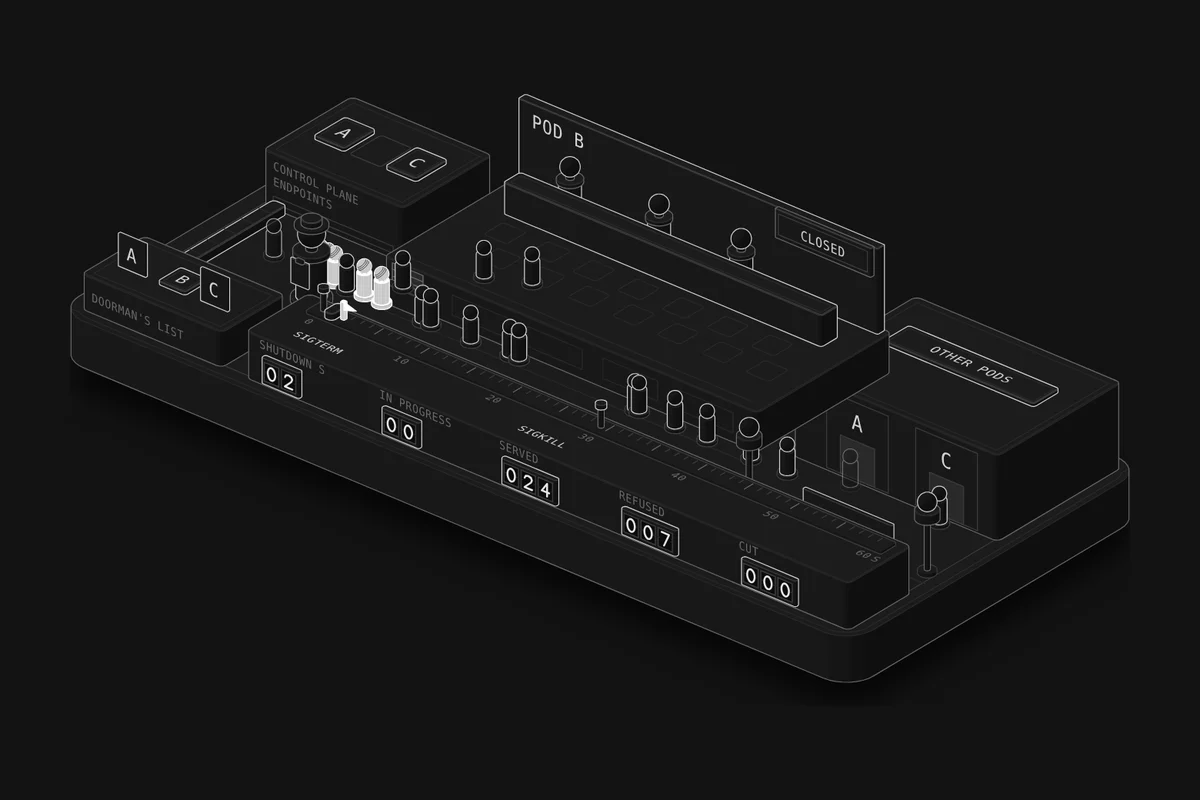
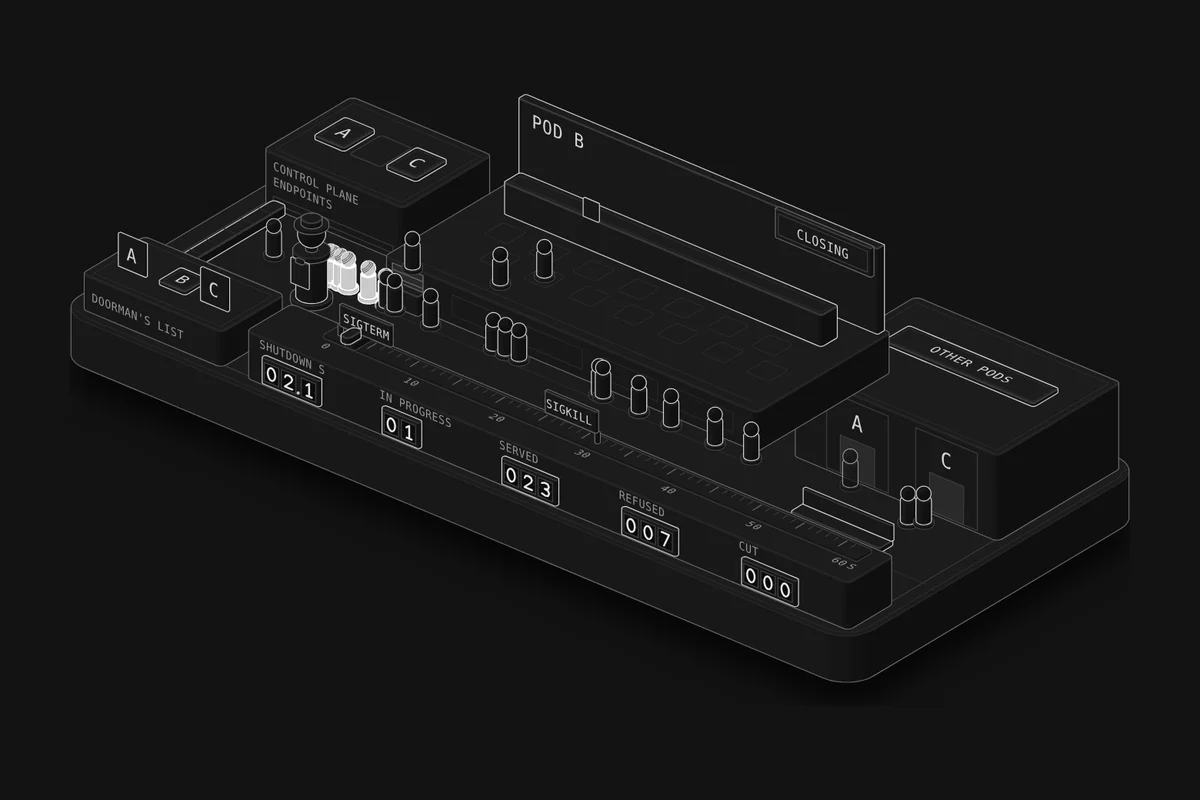
Lesson 77: fix review findings (Watch timing, desk clear of the street, signs for SIGTERM/SIGKILL, one lit role)
Clock desk moved forward and the rail start moved off the doorman, so the street reads clearly. SIGTERM/SIGKILL are signs, not ball-on-post pins; street lamps and the three clerks removed. Keep-alive clients wear a hat. Lit means only what goes wrong (refused/cut customers, cut tickets, the stale B card). SHUTDOWN S shows tenths in one housing, matching the stat. +N past the counter. Readout notes drop when their state is gone, holds scale with speed, SIGKILL's cut count stays while the new pod starts. Watches 3-5 start after the delete (fixed seeds) so the outcome lands within about 6 s.

Claude-Session: https://claude.ai/code/session_01S5z2gCvevbrGU3fXgpGDmP

diff --git a/src/lessons/shutdown/figure.ts b/src/lessons/shutdown/figure.ts
@@ -1,13 +1,13 @@
 // @ts-nocheck: figure code in the style of the other lessons; drawing shorthands come from src/lib/draw.
 // A shop at closing time: one pod of a service, shut down the way Kubernetes does it.
-//   at the back, the control plane's office keeps the endpoint list (a plaque per pod), the shop is pod B with its
-//   clerks and a counter where every request in progress has a ticket, and the other pods A and C share one block;
+//   at the back, the control plane's office keeps the endpoint list (a plaque per pod), the shop is pod B with a
+//   counter where every request in progress has a ticket, and the other pods A and C share one block;
 //   at the front left the doorman (the routers) sends each new customer to a pod on his own list, a copy of the
 //   office's that a capsule updates along a tube; at the front, the shutdown clock: a 60 s rail from the delete, with
-//   SIGTERM and SIGKILL pins, and the counters.
+//   SIGTERM and SIGKILL signs, and the counters.
 // Built with the Anatomy kit (MIT, github.com/wheresryan22/anatomy) and the shared workbench parts.
 import * as k from "../../../workbench/kit.mjs";
-import { basePlate, digitCounter, person, figurine, sign, plaque, card, lamp, faceText, variants, litFill } from "../../../workbench/parts.mjs";
+import { basePlate, digitCounter, person, figurine, sign, plaque, card, faceText, variants, litFill } from "../../../workbench/parts.mjs";
 import { t } from "../../../workbench/i18n.mjs";
 import { shorthand } from "../../lib/draw";
 
@@ -27,7 +27,6 @@ const WALL = { x: -62, y: -61, w: 105, d: 2.6, r: 0.4 };
 const WALL_H = 22;
 const COUNTER = { x: -56, y: -52, w: 93, d: 6, r: 0.8 };
 const COUNTER_H = 8;
-const CLERKS = [-44, -18, 6];
 const OTH = { x: 52, y: -61, w: 60, d: 43, r: 1.5 };
 const OTH_H = 22;
 export const OTH_DOORS = [71, 97];                      // pods A and C
@@ -42,7 +41,7 @@ export const DOOR_X = -57;                              // the shop's door, at t
 // ---------- front row ----------
 const PODIUM = { x: -112, y: 12, w: 41, d: 22, r: 1.5 };
 const PODIUM_H = 9;
-const DESK = { x: -64, y: 12, w: 176, d: 22, r: 1.5 };
+const DESK = { x: -64, y: 18, w: 176, d: 16, r: 1.5 };      // well in front of the street, so customers walk clear of it
 const DESK_H = 12;
 export const DOORMAN = [-75, -2];
 export const TUBE = { x: -106, y0: OFFICE.y + OFFICE.d, y1: PODIUM.y, z: 2.2 };
@@ -50,7 +49,7 @@ export const PEGS = [-104, -92, -80];                   // the doorman's list: A
 export const PLAQUES = [-101, -90.5, -80];              // the office's list: A, B, C
 
 // the shutdown clock's rail: seconds since the delete along x
-export const RAIL = { x0: -56, per: 2.7, secs: 60, y: 13.6, d: 5.6, z: DESK_H };
+export const RAIL = { x0: -46, per: 2.5, secs: 60, y: 19.6, d: 5.6, z: DESK_H };   // 0 s clear of the doorman
 export const railX = (s) => RAIL.x0 + RAIL.per * s;
 
 // walkers' paths (x, y, z)
@@ -100,12 +99,12 @@ function tube() {
   const bands = [];
   for (let y = TUBE.y0 + 5; y < TUBE.y1 - 2; y += 6) bands.push(k.lineOnTop([TUBE.x - 2, y], [TUBE.x + 2, y], TUBE.z, P));
   out.push(L(bands.join(""), { tone: "faint" }));
-  out.push(`<g data-capsule style="display:none">${litFill(S(k.slabOf({ x: -1.6, y: -3, w: 3.2, d: 6, r: 1.4 }, 0, 2.4, P, 4, 0.3), { tone: "hi", crease: "lo", lit: true }))}</g>`);
+  out.push(`<g class="sd-capsule" data-capsule style="display:none">${S(k.slabOf({ x: -1.6, y: -3, w: 3.2, d: 6, r: 1.4 }, 0, 2.4, P, 4, 0.3), { tone: "lo", crease: "lo" })}</g>`);
   return out.join("");
 }
 
 // Pod B: a floor with the door at the front left and a step up to it; a back wall with the pod's name and its sign;
-// three clerks behind a counter.
+// the counter where each request in progress has a ticket.
 function shopBack() {
   const out = [S(k.slabOf(SHOP, 0, FLOOR, P, 3, 0.5), { tone: "mid" })];
   const f = SHOP.y + SHOP.d;
@@ -121,10 +120,10 @@ function shopBack() {
   out.push(S(k.slabOf(WALL, FLOOR, WALL_H, P, 2, 0.3), { tone: "hi", crease: "lo" }));
   const wf = WALL.y + WALL.d;
   out.push(word(WALL.x + 4, wf, FLOOR + 16, "POD B", { size: 4.8, tone: "hi" }));
-  // clerks
-  for (const x of CLERKS) out.push(person(P, [x, -55, FLOOR], { scale: 0.62 }));
   out.push(S(k.slabOf(COUNTER, FLOOR, COUNTER_H, P, 3, 0.4), { tone: "hi", crease: "lo" }));
   out.push(L(k.planOutline(k.insetPlan(COUNTER, 1.2), FLOOR + COUNTER_H, P), { tone: "faint" }));
+  // requests in progress beyond the shop's places: "+N" on the floor past the counter's end
+  out.push(faceText(P, [COUNTER.x + COUNTER.w + 1.6, COUNTER.y + COUNTER.d, FLOOR], "", { face: "top", size: 3.6, tone: "hi", attr: "data-more" }));
   return out.join("");
 }
 
@@ -137,11 +136,7 @@ export const SIGN_STATES = {
 };
 function shopSign() {
   const at = { x: 13, y: WALL.y + WALL.d, z: FLOOR + 14, w: 28, h: 7.4, posts: false, size: 3.4 };
-  return Object.entries(SIGN_STATES).map(([key, text]) => {
-    const lit = key === "closing";
-    const s = sign(P, { ...at, text, lit });
-    return `<g ${lit ? 'class="wb-lit-group" ' : ""}data-sign="${key}"${key === "open" ? "" : ' style="display:none"'}>${lit ? litFill(s) : s}</g>`;
-  }).join("");
+  return Object.entries(SIGN_STATES).map(([key, text]) => `<g data-sign="${key}"${key === "open" ? "" : ' style="display:none"'}>${sign(P, { ...at, text })}</g>`).join("");
 }
 
 // Pods A and C: one block with two storefronts.
@@ -189,40 +184,54 @@ function desk() {
   // counters on the front, each with its caption above the housing
   const f = DESK.y + DESK.d;
   const slots = [
-    ["took", 2, t("SHUTDOWN S", "APAGADO S")],
+    ["took", 0, t("SHUTDOWN S", "APAGADO S")],
     ["inflight", 2, t("IN PROGRESS", "EN CURSO")],
     ["served", 3, t("SERVED", "ATENDIDAS")],
     ["refused", 3, t("REFUSED", "RECHAZADAS")],
     ["cut", 3, t("CUT", "CORTADAS")],
   ];
+  const WH = { w: 4.2, h: 4.8, gap: 0.8 };
   slots.forEach(([name, count, label], i) => {
     const x = DESK.x + 4 + 35 * i;
-    out.push(digitCounter(P, { x: x + 1.4, y: f, z: 1.2, count, w: 4.2, h: 4.8, gap: 0.8, pad: 0.9, name }));
+    if (count) out.push(digitCounter(P, { x: x + 1.4, y: f, z: 1.2, count, ...WH, pad: 0.9, name }));
+    else {
+      // seconds since the delete, to a tenth: two wheels, a decimal point and one wheel, in one housing
+      const x0 = x + 1.4, xf = x0 + 2 * WH.w + WH.gap + 1.6;
+      out.push(S(k.slabOf({ x: x0 - 0.9, y: f - 1.4, w: xf + WH.w + 0.9 - (x0 - 0.9), d: 1.4, r: 0.5 }, 1.2 - 0.9, WH.h + 1.8, P, 2), { tone: "hi", crease: "lo" }));
+      out.push(digitCounter(P, { x: x0, y: f, z: 1.2, count: 2, ...WH, housing: false, name: name + "I" }));
+      out.push(D([k.iso([x0 + 2 * WH.w + WH.gap + 0.8, f + 0.1, 1.8], P)], { size: 1, tone: "hi" }));
+      out.push(digitCounter(P, { x: xf, y: f, z: 1.2, count: 1, ...WH, housing: false, name: name + "F" }));
+    }
     out.push(word(x, f, 9.3, label));
   });
   return out.join("");
 }
 
-// The pins on the rail: SIGTERM and SIGKILL (moved to their seconds by the live code), the moment the doorman heard
-// (a capsule) and the moment the pod was gone (a flag), and the slider for now.
+// The marks on the rail: SIGTERM and SIGKILL signs (moved to their seconds by the live code: a post at the second,
+// the board to its right for SIGTERM and to its left for SIGKILL), the moment the doorman heard (a capsule) and the
+// moment the pod was gone (a flag), and the slider for now.
 function railMarks() {
   const z = DESK_H + 0.6, y = RAIL.y + RAIL.d / 2;
-  const pin = (name, label, anchor) => `<g data-pin="${name}">${S(k.cylinder(0, y, 0.7, z, 5, P, 10), { tone: "mid", crease: "none" })}${S(k.cylinder(0, y, 1.3, z + 5, 1.2, P, 12), { tone: "hi", crease: "lo" })}${faceText(P, [anchor === "end" ? -1 : 1, RAIL.y + RAIL.d + 9.4, DESK_H], label, { face: "top", size: CAP, tone: "hi", anchor })}</g>`;
-  const out = [pin("term", "SIGTERM", "start"), pin("kill", "SIGKILL", "end")];
+  const pin = (name, label, side, secs) => {
+    const w = 15, h = 5.4, post = 2.6, x0 = side > 0 ? 0 : -w;
+    const board = { x: x0, y: y - 0.5, w, d: 1, r: 0.2 };
+    return `<g data-pin="${name}" transform="${k.translateAlong(P, [railX(secs), 0, 0])}">`
+      + S(k.slabOf({ x: -0.5, y: y - 0.5, w: 1, d: 1, r: 0.2 }, z, post + 0.2, P, 2), { tone: "mid", crease: "none" })
+      + S(k.slabOf(board, z + post, h, P, 2, 0.2), { tone: "mid", crease: "lo" })
+      + faceText(P, [x0 + w / 2 + side * 0.4, y + 0.5, z + post + 1.5], label, { size: CAP, tone: "hi", anchor: "middle" })
+      + `</g>`;
+  };
+  const out = [];
+  out.push(`<g data-mark="now" transform="${k.translateAlong(P, [railX(0), 0, 0])}">${S(k.slabOf({ x: -1.6, y: RAIL.y - 0.6, w: 3.2, d: RAIL.d + 1.2, r: 0.4 }, z, 1.6, P, 2, 0.2), { tone: "lo", crease: "none" })}${S(k.slabOf({ x: -0.4, y: RAIL.y + RAIL.d / 2 - 0.4, w: 0.8, d: 0.8, r: 0.2 }, z + 1.6, 4.4, P, 2), { tone: "lo", crease: "none" })}</g>`);
+  out.push(pin("term", "SIGTERM", 1, 0), pin("kill", "SIGKILL", -1, 30));
   out.push(`<g data-mark="knew" style="display:none">${S(k.slabOf({ x: -1.4, y: y - 2.6, w: 2.8, d: 5.2, r: 1.2 }, z, 1.6, P, 4, 0.3), { tone: "hi", crease: "lo" })}</g>`);
-  out.push(`<g class="wb-lit-group" data-mark="gone" style="display:none">${litFill(S(k.slabOf({ x: -0.6, y: y - 0.6, w: 1.2, d: 1.2, r: 0.3 }, z, 4.4, P, 2), { tone: "hi", crease: "none", lit: true }))}<path class="wb-pennant" data-lit d="${k.pathOf([k.iso([0, y, z + 4.4], P), k.iso([3.6, y, z + 3.3], P), k.iso([0, y, z + 2.2], P)], true)}"/></g>`);
-  out.push(`<g data-mark="now">${S(k.slabOf({ x: -1.6, y: RAIL.y - 0.6, w: 3.2, d: RAIL.d + 1.2, r: 0.4 }, z, 1.6, P, 2, 0.2), { tone: "lo", crease: "none" })}${S(k.slabOf({ x: -0.4, y: RAIL.y + RAIL.d / 2 - 0.4, w: 0.8, d: 0.8, r: 0.2 }, z + 1.6, 4.4, P, 2), { tone: "lo", crease: "none" })}</g>`);
+  out.push(`<g data-mark="gone" style="display:none">${S(k.slabOf({ x: -0.6, y: y - 0.6, w: 1.2, d: 1.2, r: 0.3 }, z, 4.4, P, 2), { tone: "mid", crease: "none" })}<path class="wb-pennant" d="${k.pathOf([k.iso([0, y, z + 4.4], P), k.iso([3.6, y, z + 3.3], P), k.iso([0, y, z + 2.2], P)], true)}"/></g>`);
   return out.join("");
 }
 
-// The street in front of pods A and C: two lamp posts and a bench.
+// The street in front of pods A and C: a bench.
 function street() {
   const out = [];
-  for (const [x, y] of [[57, 3], [109, 3]]) {
-    out.push(S(k.cylinder(x, y, 2.2, 0, 1, P, 18), { tone: "lo", crease: "none" }));
-    out.push(S(k.cylinder(x, y, 0.7, 1, 13, P, 10), { tone: "mid", crease: "none" }));
-    out.push(lamp(P, [x, y, 14], { r: 2.2 }));
-  }
   const bench = { x: 72, y: 1.5, w: 26, d: 5, r: 0.6 };
   for (const x of [bench.x + 2, bench.x + bench.w - 4]) out.push(S(k.slabOf({ x, y: bench.y + 0.5, w: 2, d: 4, r: 0.3 }, 0, 2.6, P, 2), { tone: "lo", crease: "none" }));
   out.push(S(k.slabOf(bench, 2.6, 1.2, P, 2, 0.2), { tone: "hi", crease: "lo" }));
@@ -234,10 +243,11 @@ function doorman() {
   return person(P, [DOORMAN[0], DOORMAN[1], 0], { scale: 0.85, hat: "cap", holding: "clipboard" });
 }
 
-// A customer, drawn at the origin and moved with translateAlong. Darker when it is a keep-alive client.
+// A customer, drawn at the origin and moved with translateAlong. A keep-alive client wears a hat.
 export function walkerSvg() {
-  const fig = (tone) => litFill(figurine(P, [0, 0, 0], { scale: 0.72, tone }));
-  return `<g data-tone="new">${fig("hi")}</g><g data-tone="keep" style="display:none">${fig("lo")}</g>`;
+  const s = 0.72, fig = litFill(figurine(P, [0, 0, 0], { scale: s }));
+  const hat = S(k.cylinder(0, 0, 3.4 * s, 12.6 * s, 0.6 * s, P, 20), { tone: "mid", crease: "none" }) + S(k.cylinder(0, 0, 2 * s, 13.2 * s, 1.8 * s, P, 16, 0.3 * s), { tone: "mid", crease: "lo" });
+  return `<g data-tone="new">${fig}</g><g data-tone="keep" style="display:none">${fig}${hat}</g>`;
 }
 // A request's ticket on the counter: short, or a taller one for an export.
 export function ticketSvg() {
@@ -250,8 +260,8 @@ export function buildFigure() {
     width: WIDTH,
     height: HEIGHT,
     label: t(
-      "A shop at closing time, on a base plate. At the back, the control plane's office has a plaque on its roof for each ready pod, A, B and C. Next to it, pod B is a shop with a door at the front left, three clerks behind a counter, a ticket on the counter for every request in progress and a sign on the back wall that reads OPEN, CLOSING, CLOSED or STARTING. Pods A and C share one block at the back right. At the front left a doorman stands at a podium with his own list of pods, a standing card for each; a capsule carries each change from the office to his list along a tube, so his list lags. He sends each new customer to one of the pods on his list. At the front, the shutdown clock: a rail of 60 seconds from the moment the pod is deleted, with pins for SIGTERM and SIGKILL, a capsule mark for when the doorman heard and a flag for when the pod was gone, and counters for the seconds since the delete, requests in progress, served, refused and cut.",
-      "Una tienda a la hora de cierre, sobre una placa base. Atrás, la oficina del plano de control tiene en el techo una placa por cada pod listo, A, B y C. Al lado, el pod B es una tienda con la puerta adelante a la izquierda, tres empleados detrás de un mostrador, un ticket en el mostrador por cada solicitud en curso y un letrero en la pared del fondo que dice ABIERTO, CERRANDO, CERRADO o ARRANCANDO. Los pods A y C comparten un bloque atrás a la derecha. Adelante a la izquierda, un portero está en un atril con su propia lista de pods, una tarjeta de pie por cada uno; una cápsula lleva cada cambio de la oficina a su lista por un tubo, así que su lista va con retraso. Él manda cada cliente nuevo a uno de los pods de su lista. Al frente, el reloj del apagado: un riel de 60 segundos desde que se borra el pod, con clavijas para SIGTERM y SIGKILL, una marca de cápsula para cuando el portero se enteró y una bandera para cuando el pod terminó, y contadores de los segundos desde el borrado, las solicitudes en curso, atendidas, rechazadas y cortadas.",
+      "A shop at closing time, on a base plate. At the back, the control plane's office has a plaque on its roof for each ready pod, A, B and C. Next to it, pod B is a shop with a door at the front left, a counter with a ticket for every request in progress and a sign on the back wall that reads OPEN, CLOSING, CLOSED or STARTING. Pods A and C share one block at the back right. At the front left a doorman stands at a podium with his own list of pods, a standing card for each; a capsule carries each change from the office to his list along a tube, so his list lags. He sends each new customer to one of the pods on his list; keep-alive clients wear a hat. At the front, the shutdown clock: a rail of 60 seconds from the moment the pod is deleted, with signs for SIGTERM and SIGKILL, a capsule mark for when the doorman heard and a flag for when the pod was gone, and counters for the seconds since the delete, requests in progress, served, refused and cut.",
+      "Una tienda a la hora de cierre, sobre una placa base. Atrás, la oficina del plano de control tiene en el techo una placa por cada pod listo, A, B y C. Al lado, el pod B es una tienda con la puerta adelante a la izquierda, un mostrador con un ticket por cada solicitud en curso y un letrero en la pared del fondo que dice ABIERTO, CERRANDO, CERRADO o ARRANCANDO. Los pods A y C comparten un bloque atrás a la derecha. Adelante a la izquierda, un portero está en un atril con su propia lista de pods, una tarjeta de pie por cada uno; una cápsula lleva cada cambio de la oficina a su lista por un tubo, así que su lista va con retraso. Él manda cada cliente nuevo a uno de los pods de su lista; los clientes keep-alive llevan sombrero. Al frente, el reloj del apagado: un riel de 60 segundos desde que se borra el pod, con letreros para SIGTERM y SIGKILL, una marca de cápsula para cuando el portero se enteró y una bandera para cuando el pod terminó, y contadores de los segundos desde el borrado, las solicitudes en curso, atendidas, rechazadas y cortadas.",
     ),
     body: [
       plate(),

diff --git a/src/lessons/shutdown/page.ts b/src/lessons/shutdown/page.ts
@@ -129,7 +129,8 @@ const EXPERIMENTS = [
       "The sleep has to outlast the slowest router, not the typical one. kube-proxy usually applies an endpoint change within a second or two, but a load balancer outside the cluster, updated by a controller that watches the endpoints, can take several seconds or more, and every connection it sends once B has stopped listening is refused. B still finishes what it has, so nothing is cut: the errors are all at the door. Measure the delay rather than guess it: delete a pod under load and watch the edge for 502s and refused connections. A longer sleep is cheap for one pod, but it adds to every pod of every rollout, and it is spent out of the grace period (experiment 4).",
       "La pausa tiene que durar más que el router más lento, no que el típico. kube-proxy suele aplicar un cambio de endpoints en uno o dos segundos, pero un balanceador fuera del clúster, actualizado por un controlador que observa los endpoints, puede tardar varios segundos o más, y cada conexión que manda después de que B dejó de escuchar es rechazada. B igual termina lo que tiene, así que nada se corta: todos los errores están en la puerta. Mide el retraso en lugar de adivinarlo: borra un pod con carga y busca 502 y conexiones rechazadas en el borde. Una pausa más larga es barata para un pod, pero se suma a cada pod de cada despliegue, y se descuenta del período de gracia (experimento 4).",
     ),
-    watch: { ...BASE, preStop: "5", router: "slow" },
+    // starts 3 s after the delete, so the refusals and the slow news land within the first seconds
+    watch: { ...BASE, preStop: "5", router: "slow", firstIn: -3, seed: 1 },
   },
   {
     id: "grace",
@@ -147,7 +148,8 @@ const EXPERIMENTS = [
       "The grace period (terminationGracePeriodSeconds, 30 s unless you set it) starts at the delete, not at SIGTERM, and the preStop hook runs inside it: a 15 s sleep leaves the app 15 s between SIGTERM and SIGKILL. Requests keep running through the sleep, so what counts is the time since the delete: an export that started just before it may need 50 s, and at 30 s SIGKILL ends it, with no handler to run. Set the grace period to cover the sleep plus your longest request, or make long work survive a restart: hand exports to a job queue, or let the client resume them. If the hook itself is still running when the grace period ends, the kubelet gives it 2 s more, once, and then kills the container.",
       "El período de gracia (terminationGracePeriodSeconds, 30 s salvo que lo cambies) empieza con el borrado, no con SIGTERM, y el hook preStop corre dentro de él: una pausa de 15 s le deja a la app 15 s entre SIGTERM y SIGKILL. Las solicitudes siguen corriendo durante la pausa, así que lo que cuenta es el tiempo desde el borrado: una exportación que empezó justo antes puede necesitar 50 s, y a los 30 s SIGKILL la termina, sin ningún handler que se ejecute. Configura el período de gracia para que cubra la pausa más tu solicitud más larga, o haz que el trabajo largo sobreviva a un reinicio: pasa las exportaciones a una cola de trabajos, o deja que el cliente las retome. Si el propio hook sigue corriendo cuando termina el período de gracia, el kubelet le da 2 s más, una sola vez, y después mata el contenedor.",
     ),
-    watch: { ...BASE, preStop: "15", work: "exports", speed: 3 },
+    // starts 12 s after the delete at ×3, so SIGKILL comes about 6 s after the press
+    watch: { ...BASE, preStop: "15", work: "exports", speed: 3, firstIn: -12, seed: 4 },
   },
   {
     id: "keep",
@@ -165,7 +167,7 @@ const EXPERIMENTS = [
       "The doorman only decides when a client opens a connection, and a keep-alive client doesn't open one: it keeps sending on the one it has, so taking B off every list changes nothing for it. A server that stops accepting and waits for its open connections to end is waiting for clients with no reason to leave, until SIGKILL cuts whatever is in progress, and the pod always takes the whole grace period to go. The server has to end them: close idle connections at once, and answer the last request on each busy one with Connection: close (HTTP/1.1) or send GOAWAY (HTTP/2), so the client reconnects through the doorman, who sends it elsewhere. Go's http.Server.Shutdown works this way: it closes the listeners, then the idle connections, then each active one once its request is done. It leaves hijacked connections such as WebSockets alone; those need their own goodbye.",
       "El portero solo decide cuando un cliente abre una conexión, y un cliente keep-alive no abre ninguna: sigue mandando por la que tiene, así que sacar a B de todas las listas no cambia nada para él. Un servidor que deja de aceptar y espera a que terminen sus conexiones abiertas está esperando a clientes que no tienen por qué irse, hasta que SIGKILL corta lo que esté en curso, y el pod siempre tarda todo el período de gracia en irse. El servidor tiene que terminarlas: cerrar de inmediato las conexiones ociosas, y responder la última solicitud de cada conexión ocupada con Connection: close (HTTP/1.1) o enviar GOAWAY (HTTP/2), para que el cliente vuelva a conectarse por el portero, que lo manda a otro lado. http.Server.Shutdown de Go funciona así: cierra los listeners, después las conexiones ociosas y después cada conexión activa en cuanto termina su solicitud. No toca las conexiones secuestradas (hijacked), como los WebSockets; esas necesitan su propia despedida.",
     ),
-    watch: { ...BASE, preStop: "5", conns: "keep", speed: 3 },
+    watch: { ...BASE, preStop: "5", conns: "keep", speed: 3, firstIn: -12, seed: 1 },
   },
 ];
 
@@ -193,20 +195,20 @@ const QUESTIONS = [
 export default defineLesson({
   title: t("Graceful Shutdown Workbench", "Banco de trabajo: apagado ordenado"),
   eyebrow: t("Systems lesson 77 · Graceful shutdown", "Lección de sistemas 77 · Apagado ordenado"),
-  lede: t("A rolling deploy shuts pods down while traffic still flows. Kubernetes sends SIGTERM without waiting for the routers to stop sending the pod new connections, and SIGKILL a grace period after the delete, so a pod that exits, or just stops listening, the moment it is told drops requests every time. This lesson runs one shop at closing time, with a doorman whose list runs late, clerks finishing their customers and a shutdown clock: watch it, predict what each setting drops, then explain it back.",
-    "Un despliegue gradual (rolling deploy) apaga pods mientras el tráfico sigue llegando. Kubernetes envía SIGTERM sin esperar a que los routers dejen de mandarle conexiones nuevas al pod, y SIGKILL un período de gracia después del borrado, así que un pod que sale, o solo deja de escuchar, en cuanto se lo piden pierde solicitudes cada vez. Esta lección usa una tienda a la hora de cierre, con un portero cuya lista va con retraso, empleados que terminan con sus clientes y un reloj del apagado: mírala, predice qué pierde cada ajuste y después explícala."),
+  lede: t("A rolling deploy shuts pods down while traffic still flows. Kubernetes sends SIGTERM without waiting for the routers to stop sending the pod new connections, and SIGKILL a grace period after the delete, so a pod that exits, or just stops listening, the moment it is told drops requests every time. This lesson runs one shop at closing time, with a doorman whose list runs late, a counter that finishes what it has and a shutdown clock: watch it, predict what each setting drops, then explain it back.",
+    "Un despliegue gradual (rolling deploy) apaga pods mientras el tráfico sigue llegando. Kubernetes envía SIGTERM sin esperar a que los routers dejen de mandarle conexiones nuevas al pod, y SIGKILL un período de gracia después del borrado, así que un pod que sale, o solo deja de escuchar, en cuanto se lo piden pierde solicitudes cada vez. Esta lección usa una tienda a la hora de cierre, con un portero cuya lista va con retraso, un mostrador que termina lo que tiene y un reloj del apagado: mírala, predice qué pierde cada ajuste y después explícala."),
   machine: {
     intro: t("Pod B is the shop; pods A and C share the block at the back. The doorman stands for every router in front of the pods and sends each new customer to one of the pods on his list. The deploy deletes B every few seconds and starts a new one when it is gone. Try what B does on SIGTERM, the preStop sleep, the grace period, a slow balancer, long exports and keep-alive connections, and watch the REFUSED and CUT counters.",
       "El pod B es la tienda; los pods A y C comparten el bloque del fondo. El portero representa a todos los routers que hay delante de los pods y manda cada cliente nuevo a uno de los pods de su lista. El despliegue borra B cada pocos segundos y arranca uno nuevo cuando termina. Prueba qué hace B con SIGTERM, la pausa preStop, el período de gracia, un balanceador lento, las exportaciones largas y las conexiones persistentes (keep-alive), y mira los contadores RECHAZADAS y CORTADAS."),
     plate: {
       title: t("Closing time", "Hora de cierre"),
       keys: [
-        { mark: "lit", label: t("A refused or cut customer and ticket; B's card on the doorman's list while he still routes to a deleted pod; CLOSING on B's sign; the capsule in the tube; the flag where B was gone", "Un cliente y ticket rechazado o cortado; la tarjeta de B en la lista del portero mientras todavía manda a un pod borrado; CERRANDO en el letrero de B; la cápsula en el tubo; la bandera donde B terminó") },
-        { mark: "raised", label: t("Customers (darker: keep-alive clients); a ticket on the counter for every request in progress, taller for an export", "Clientes (más oscuros: clientes keep-alive); un ticket en el mostrador por cada solicitud en curso, más alto si es una exportación") },
-        { mark: "flat", label: t("The shutdown clock: 60 s from the delete, with SIGTERM and SIGKILL pins", "El reloj del apagado: 60 s desde el borrado, con clavijas de SIGTERM y SIGKILL") },
+        { mark: "lit", label: t("A refused or cut customer, and a cut request's ticket; B's card on the doorman's list while he still sends customers to a deleted pod", "Un cliente rechazado o cortado, y el ticket de una solicitud cortada; la tarjeta de B en la lista del portero mientras todavía manda clientes a un pod borrado") },
+        { mark: "raised", label: t("Customers (with a hat: keep-alive clients); a ticket on the counter for every request in progress, taller for an export", "Clientes (con sombrero: clientes keep-alive); un ticket en el mostrador por cada solicitud en curso, más alto si es una exportación") },
+        { mark: "flat", label: t("The shutdown clock: 60 s from the delete, with SIGTERM and SIGKILL signs", "El reloj del apagado: 60 s desde el borrado, con letreros de SIGTERM y SIGKILL") },
       ],
       caption: t(
-        "Times are illustrative and round. The doorman sends B a third of the new connections, " + RATE + " a second, and a customer takes " + WALK + " s to walk from him to the door. Requests take " + range(SHORT) + "; with exports, 1 in " + Math.round(1 / EXPORT.share) + " takes " + range(EXPORT.len) + ". When B is deleted, the office drops B's plaque at once, but the capsule takes " + range(ROUTER.fast) + " (" + range(ROUTER.slow) + " for the slow balancer) to reach the doorman's list, and until it does his B card stays up, lit; then it is laid flat. Meanwhile the kubelet runs the preStop sleep, then sends SIGTERM. Once the door is shuttered, a customer who reaches it is refused. When the grace period ends, SIGKILL cuts whatever is still on the counter. On the rail, a capsule mark shows when the doorman heard and a flag when B was gone. Counters: SHUTDOWN S (seconds since the delete), IN PROGRESS, SERVED, REFUSED and CUT.",
+        "Times are illustrative and round. The doorman sends B a third of the new connections, " + RATE + " a second, and a customer takes " + WALK + " s to walk from him to the door. Requests take " + range(SHORT) + "; with exports, 1 in " + Math.round(1 / EXPORT.share) + " takes " + range(EXPORT.len) + ". When B is deleted, the office drops B's plaque at once, but the capsule takes " + range(ROUTER.fast) + " (" + range(ROUTER.slow) + " for the slow balancer) to reach the doorman's list, and until it does his B card stays up, lit; then it lies flat. Meanwhile the kubelet runs the preStop sleep, then sends SIGTERM. Once the door is shuttered, a customer who reaches it is refused. When the grace period ends, SIGKILL cuts whatever is still on the counter. On the rail, a capsule mark shows when the doorman heard and a flag when B was gone. Counters: SHUTDOWN S (seconds since the delete), IN PROGRESS, SERVED, REFUSED and CUT.",
         "Los tiempos son ilustrativos y redondos. El portero le manda a B un tercio de las conexiones nuevas, " + RATE + " por segundo, y un cliente tarda " + WALK + " s en caminar desde él hasta la puerta. Las solicitudes tardan " + range(SHORT) + "; con exportaciones, 1 de cada " + Math.round(1 / EXPORT.share) + " tarda " + range(EXPORT.len) + ". Cuando se borra B, la oficina quita la placa de B de inmediato, pero la cápsula tarda " + range(ROUTER.fast) + " (" + range(ROUTER.slow) + " con el balanceador lento) en llegar a la lista del portero, y hasta entonces su tarjeta B sigue de pie, encendida; después queda acostada. Mientras tanto, el kubelet ejecuta la pausa preStop y después envía SIGTERM. Con la persiana de la puerta bajada, un cliente que llega a ella es rechazado. Cuando se acaba el período de gracia, SIGKILL corta lo que siga en el mostrador. En el riel, una marca de cápsula muestra cuándo se enteró el portero y una bandera cuándo terminó B. Contadores: APAGADO S (segundos desde el borrado), EN CURSO, ATENDIDAS, RECHAZADAS y CORTADAS.",
       ),
       stage: { "data-closing-time": "" },
@@ -242,6 +244,7 @@ export default defineLesson({
   explain: { questions: QUESTIONS },
   css: `
 .sd-door{fill:var(--anatomy-faint);stroke:var(--anatomy-lo);stroke-width:.6}
+.sd-capsule .iso-solid>:is(.iso-fill,.iso-top,.iso-shade){fill:var(--anatomy-faint)}
 .iso-stage [data-layer] *{pointer-events:none}
 ${LIT_FILL_CSS}
 `,

diff --git a/src/lessons/shutdown/live.ts b/src/lessons/shutdown/live.ts
@@ -6,7 +6,7 @@
 import { translateAlong, depthOf } from "../../../workbench/vendor-anatomy/kit/iso-kit.mjs";
 import * as WB from "../../runtime/wb";
 import { L, T } from "../../runtime/wb";
-import { show, setLit, playPause } from "../../runtime/dom";
+import { show, setLit, setText, playPause } from "../../runtime/dom";
 import { makeSim } from "./sim";
 
 export default function mount({ P, G, WALKER_SVG, TICKET_SVG }, root) {
@@ -14,7 +14,8 @@ export default function mount({ P, G, WALKER_SVG, TICKET_SVG }, root) {
   const q = (s) => svg.querySelector(s);
   const NS = "http://www.w3.org/2000/svg";
   const layers = { shop: q('[data-layer="shop"]'), street: q('[data-layer="street"]'), tickets: q('[data-layer="tickets"]') };
-  const counters = Object.fromEntries(["took", "inflight", "served", "refused", "cut"].map((n) => [n, WB.counter(svg, n, P)]));
+  const counters = Object.fromEntries(["tookI", "tookF", "inflight", "served", "refused", "cut"].map((n) => [n, WB.counter(svg, n, P)]));
+  const moreEl = q("[data-more]");
   const pins = { term: q('[data-pin="term"]'), kill: q('[data-pin="kill"]') };
   const marks = { knew: q('[data-mark="knew"]'), gone: q('[data-mark="gone"]'), now: q('[data-mark="now"]') };
   const capsule = q("[data-capsule]"), plaqueB = q('[data-plaque="B"]'), shutter = q("[data-shutter]");
@@ -81,14 +82,16 @@ export default function mount({ P, G, WALKER_SVG, TICKET_SVG }, root) {
   let model, clock, logAt, note, seed = 5;
   const byW = new Map(), byReq = new Map(), byClient = new Map();
 
-  function restart(firstIn = 2.5) {
+  // firstIn: seconds from now to the first delete; negative when the delete happened that long before the first frame
+  // (a Watch that would otherwise wait half a minute for SIGKILL). useSeed: a fixed seed for a Watch.
+  function restart(firstIn = 2.5, useSeed = null) {
     for (const w of [...walkers]) drop(w);
     for (const id of [...tickets.keys()]) unticket(id, false);
     for (const k of fading) { k.g.remove(); tpool.push(k); }
     fading.clear(); byW.clear(); byReq.clear(); byClient.clear();
-    const warm = cfg.work === "exports" ? 40 : 8;
-    model = makeSim({ onTerm: cfg.onTerm, preStop: Number(cfg.preStop), grace: Number(cfg.grace), work: cfg.work, conns: cfg.conns, router: cfg.router, auto: true, firstAt: warm + firstIn }, seed);
-    seed = (seed * 7 + 3) % 9973 + 1;
+    const warm = (cfg.work === "exports" ? 40 : 8) + Math.max(0, -firstIn);
+    model = makeSim({ onTerm: cfg.onTerm, preStop: Number(cfg.preStop), grace: Number(cfg.grace), work: cfg.work, conns: cfg.conns, router: cfg.router, auto: true, firstAt: warm + firstIn }, useSeed ?? seed);
+    if (useSeed == null) seed = (seed * 7 + 3) % 9973 + 1;
     clock = warm; note = null;
     model.runTo(clock);
     logAt = model.log.length;
@@ -104,8 +107,10 @@ export default function mount({ P, G, WALKER_SVG, TICKET_SVG }, root) {
 
   // ---------- the model's log: walk customers and narrate ----------
   const keep = () => model.cfg.conns === "keep";
-  function tell(at, en, es, hold = 2.6) { note = { t: at, until: at + hold, text: T(en, es) }; }
-  const s1 = (x) => x.toFixed(1) + " s";
+  // A note for the readout: held `hold` seconds of page time, and dropped sooner once `still()` is false (the state it
+  // describes is gone). en/es may be functions, for a number that changes while the note shows.
+  function tell(at, en, es, hold = 2.6, still = null) { note = { t: at, until: at + hold * Math.max(1, cfg.speed), en, es, still }; }
+  const s1 = (x) => (Math.floor(x * 10 + 1e-6) / 10).toFixed(1) + " s";   // to a tenth, rounded down, as on the wheels
   function scan() {
     for (; logAt < model.log.length; logAt++) {
       const e = model.log[logAt];
@@ -118,7 +123,7 @@ export default function mount({ P, G, WALKER_SVG, TICKET_SVG }, root) {
           timed(w, c != null && byClient.has(c) ? [STEP_FRONT] : [QUEUE, STEP_FRONT], e.w.at - e.t);
           byW.set(e.w.id, w);
           if (!model.routed) break;
-          if (!model.listed && sd) tell(e.t, "the doorman still sends a customer to B", "el portero todavía manda un cliente a B", 1.6);
+          if (!model.listed && sd) tell(e.t, "the doorman still sends a customer to B", "el portero todavía manda un cliente a B", 1.6, () => model.routed);
           break;
         }
         case "elsewhere": {
@@ -135,7 +140,7 @@ export default function mount({ P, G, WALKER_SVG, TICKET_SVG }, root) {
           light(w, true); w.unlitAt = clock + 1.4;
           if (e.w.client != null) { go(w, [QUEUE], 30); byClient.set(e.w.client, w); }
           else { go(w, [TURNED], 26); w.onArrive = () => fade(w, 0.8); }
-          tell(e.t, "B is not listening · refused (" + (sd ? sd.refused : 0) + " this shutdown)", "B no escucha · rechazado (" + (sd ? sd.refused : 0) + " en este apagado)", 1.8);
+          tell(e.t, "B is not listening · refused (" + (sd ? sd.refused : 0) + " this shutdown)", "B no escucha · rechazado (" + (sd ? sd.refused : 0) + " en este apagado)", 1.8, () => !model.listening);
           break;
         }
         case "start": {
@@ -172,23 +177,34 @@ export default function mount({ P, G, WALKER_SVG, TICKET_SVG }, root) {
           if (e.why === "closed") tell(e.t, "B closes a keep-alive connection · the client will reconnect through the doorman", "B cierra una conexión keep-alive · el cliente volverá a conectarse por el portero", 2.2);
           break;
         }
-        case "delete":
-          tell(e.t, model.cfg.preStop ? "pod B deleted · preStop sleep " + model.cfg.preStop + " s before SIGTERM · the doorman hasn't heard" : "pod B deleted · SIGTERM at once · the doorman hasn't heard", model.cfg.preStop ? "pod B borrado · pausa preStop de " + model.cfg.preStop + " s antes de SIGTERM · el portero no se enteró" : "pod B borrado · SIGTERM de inmediato · el portero no se enteró", 2.6);
+        case "delete": {
+          const at0 = sd;
+          tell(e.t, model.cfg.preStop ? "pod B deleted · preStop sleep " + model.cfg.preStop + " s before SIGTERM · the doorman hasn't heard" : "pod B deleted · SIGTERM at once · the doorman hasn't heard", model.cfg.preStop ? "pod B borrado · pausa preStop de " + model.cfg.preStop + " s antes de SIGTERM · el portero no se enteró" : "pod B borrado · SIGTERM de inmediato · el portero no se enteró", 2.6, () => model.routed && model.sd === at0 && (model.phase === "prestop" || !model.cfg.preStop));
           break;
+        }
         case "sigterm":
-          if (model.cfg.preStop) tell(e.t, "SIGTERM · " + (model.cfg.onTerm === "exit" ? "the app exits at once" : "B stops accepting, finishes " + model.inflight.length + " in progress"), "SIGTERM · " + (model.cfg.onTerm === "exit" ? "la app sale de inmediato" : "B deja de aceptar y termina " + model.inflight.length + " en curso"), 2.4);
+          if (model.cfg.preStop) {
+            if (model.cfg.onTerm === "exit") tell(e.t, "SIGTERM · the app exits at once", "SIGTERM · la app sale de inmediato", 2.4);
+            else tell(e.t, () => "SIGTERM · B stops accepting, finishing " + model.inflight.length + " in progress", () => "SIGTERM · B deja de aceptar y termina " + model.inflight.length + " en curso", 2.4, () => model.phase === "draining");
+          }
           break;
         case "news":
           if (e.kind === "remove") tell(e.t, "the capsule arrives · the doorman crosses B off, " + s1(e.t - sd.t0) + " after the delete", "llega la cápsula · el portero tacha a B, " + s1(e.t - sd.t0) + " después del borrado", 2.4);
-          else tell(e.t, "the new pod B is back on the doorman's list", "el pod B nuevo vuelve a la lista del portero", 2);
+          else tell(e.t, "the new pod B is back on the doorman's list", "el pod B nuevo vuelve a la lista del portero", 2, () => model.routed);
           break;
         case "sigkill":
           tell(e.t, "SIGKILL at " + model.cfg.grace + " s · " + sd.killed + (sd.killed === 1 ? " request" : " requests") + " cut", "SIGKILL a los " + model.cfg.grace + " s · " + sd.killed + (sd.killed === 1 ? " solicitud cortada" : " solicitudes cortadas"), 3);
           break;
         case "gone":
-          if (e.why !== "kill") tell(e.t, "pod B gone, " + s1(e.t - sd.t0) + " after the delete" + (sd.cut ? " · " + sd.cut + " cut" : ""), "pod B terminado, " + s1(e.t - sd.t0) + " después del borrado" + (sd.cut ? " · " + sd.cut + " cortadas" : ""), 2.6);
+          if (e.why !== "kill") tell(e.t, "pod B gone, " + s1(e.t - sd.t0) + " after the delete" + (sd.cut ? " · " + sd.cut + " cut" : ""), "pod B terminado, " + s1(e.t - sd.t0) + " después del borrado" + (sd.cut ? " · " + sd.cut + " cortadas" : ""), 2.6, () => model.phase === "gone");
           break;
-        case "starting": tell(e.t, "a new pod B starting", "arranca un pod B nuevo", 2); break;
+        case "starting": {
+          // after SIGKILL, keep what it cut in the readout while the new pod starts
+          const k = sd && sd.how === "kill" ? sd.killed : -1;
+          if (k >= 0) tell(e.t, "SIGKILL at " + model.cfg.grace + " s cut " + k + (k === 1 ? " request" : " requests") + " · a new pod B starting", "SIGKILL a los " + model.cfg.grace + " s cortó " + k + (k === 1 ? " solicitud" : " solicitudes") + " · arranca un pod B nuevo", 3, () => model.phase === "starting");
+          else tell(e.t, "a new pod B starting", "arranca un pod B nuevo", 2, () => model.phase === "starting");
+          break;
+        }
       }
     }
   }
@@ -247,18 +263,22 @@ export default function mount({ P, G, WALKER_SVG, TICKET_SVG }, root) {
     if (sd && sd.gone != null) slide(marks.gone, sd.gone - sd.t0);
 
     const st = model.st;
-    counters.took.setClamped(Math.floor(since));
+    const tenths = Math.min(999, Math.floor(since * 10 + 1e-6));
+    counters.tookI.set(Math.floor(tenths / 10)); counters.tookF.set(tenths % 10);
+    const more = model.inflight.filter((r) => r.spot < 0).length;
+    setText(moreEl, more ? "+" + more : "");
     counters.inflight.setClamped(model.inflight.length);
     counters.served.setClamped(st.served); counters.refused.setClamped(st.refused); counters.cut.setClamped(st.cut);
     stat("inflight", model.inflight.length);
     stat("served", st.served);
     stat("refused", st.refused);
     stat("cut", st.cut);
-    stat("since", sd ? since.toFixed(1) + " s" + (sd.gone != null ? L(" (gone)", " (terminado)") : "") : "—");
+    stat("since", sd ? (tenths / 10).toFixed(1) + " s" + (sd.gone != null ? L(" (gone)", " (terminado)") : "") : "—");
     const PH = { open: T("Open", "Abierto"), prestop: T("preStop sleep", "Pausa preStop"), draining: T("Draining", "Vaciando"), gone: T("Gone", "Terminado"), starting: T("Starting", "Arrancando") };
     stat("phase", L(PH[ph]) + (ph !== "starting" && ph !== "gone" && !model.listed ? L(", deleted", ", borrado") : ""));
 
-    if (note && clock < note.until) root.figure.say(L(note.text));
+    if (note && (clock >= note.until || (note.still && !note.still()))) note = null;
+    if (note) { const f = (v) => (typeof v === "function" ? v() : v); root.figure.say(L(f(note.en), f(note.es))); }
     else root.figure.say(L(status(ph, sd, "en"), status(ph, sd, "es")));
   }
   function status(ph, sd, lang) {
@@ -294,7 +314,7 @@ export default function mount({ P, G, WALKER_SVG, TICKET_SVG }, root) {
   root.on("watch", (w) => {
     for (const key of ["onTerm", "preStop", "grace", "work", "conns", "router"]) set(key, String(w[key]), true);
     set("speed", String(w.speed || 1));
-    restart(2);
+    restart(w.firstIn ?? 2, w.seed ?? null);
     wake();
   });
 
